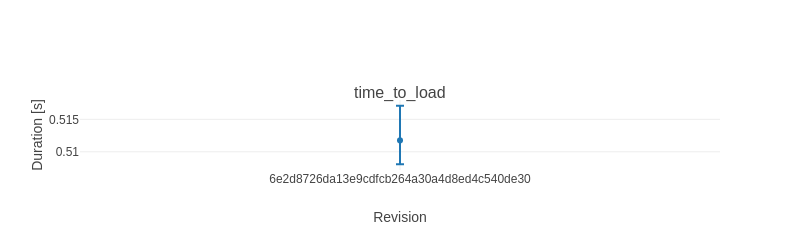
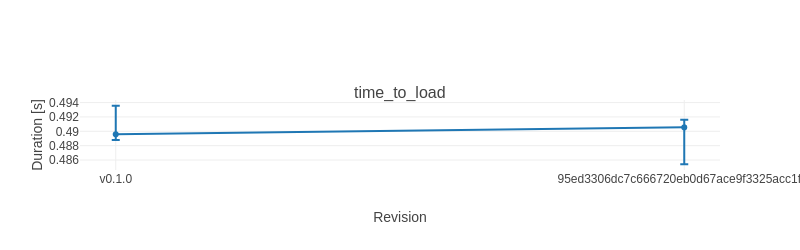
Deploying to benchmarks from @ EpiAware/ReparameterisedDistributions.jl@95ed3306dc7c666720eb0d67ace9f3325acc1faf 🚀

diff --git a/history/table.md b/history/table.md
@@ -1,8 +1,8 @@
-|              | 6e2d8726da13e9... |
-|:-------------|:-----------------:|
-| time_to_load | 0.512 ± 0.009 s   |
+|              | v0.1.0          | 95ed3306dc7c66... | v0.1.0 / 95ed3306dc7c66... |
+|:-------------|:---------------:|:-----------------:|:--------------------------:|
+| time_to_load | 0.49 ± 0.0048 s | 0.491 ± 0.0062 s  | 0.998 ± 0.016              |
 
-|              | 6e2d8726da13e9...       |
-|:-------------|:-----------------------:|
-| time_to_load | 0.149 k allocs: 11.2 kB |
+|              | v0.1.0                  | 95ed3306dc7c66...       | v0.1.0 / 95ed3306dc7c66... |
+|:-------------|:-----------------------:|:-----------------------:|:--------------------------:|
+| time_to_load | 0.149 k allocs: 11.2 kB | 0.149 k allocs: 11.2 kB | 1                          |
 

diff --git a/history/README.md b/history/README.md
@@ -1,6 +1,6 @@
 # ReparameterisedDistributions.jl benchmark history
 
-Revisions: 6e2d8726da13e9cdfcb264a30a4d8ed4c540de30
+Revisions: v0.1.0,95ed3306dc7c666720eb0d67ace9f3325acc1faf
 
 See `table.md` for the ratio summary and the PNG
 files in this folder for per-benchmark timelines.
